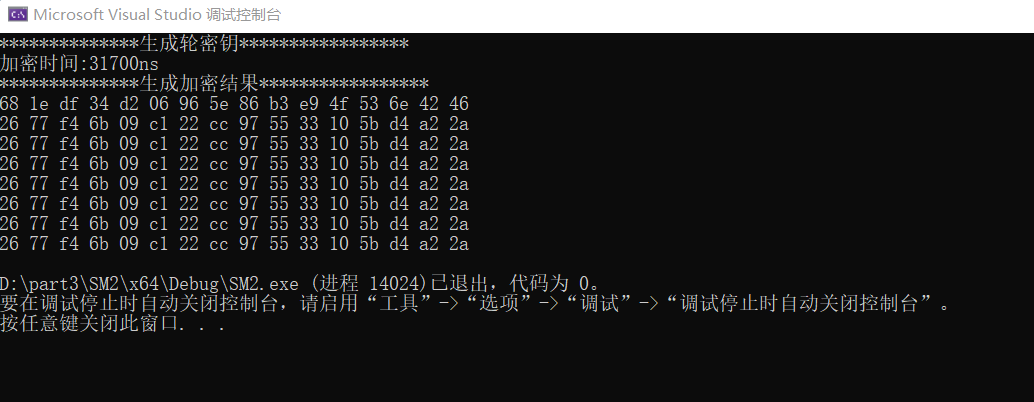
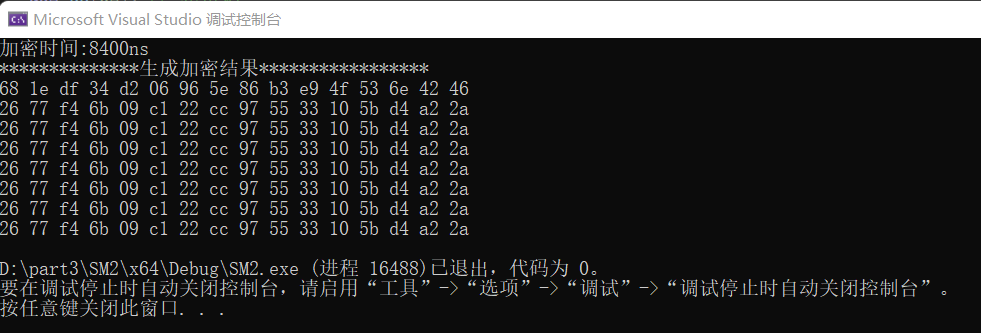
update

Changed region(s): [[0.0, 0.0, 1.0, 0.961], [0.6728, 0.8408, 0.948, 0.9009]]

diff --git a/SM4-SIMD/SM4-SIMD.cpp b/SM4-SIMD/SM4-SIMD.cpp
@@ -88,7 +88,7 @@ int main()
 	u32 Y[4]; // 密文 
 	short i; // 临时变量 
     u8 in[16 * 8] = { 0x01, 0x23, 0x45, 0x67, 0x89, 0xab, 0xcd, 0xef, 0xfe, 0xdc, 0xba, 0x98, 0x76, 0x54, 0x32, 0x10 };
-	printf("**************生成轮密钥*****************\n");
+	//printf("**************生成轮密钥*****************\n");
     std::chrono::high_resolution_clock::time_point tp1 = std::chrono::high_resolution_clock::now();
 	getRK(MK, K, RK);
 	//for (i = 0; i < 32; i++) {
